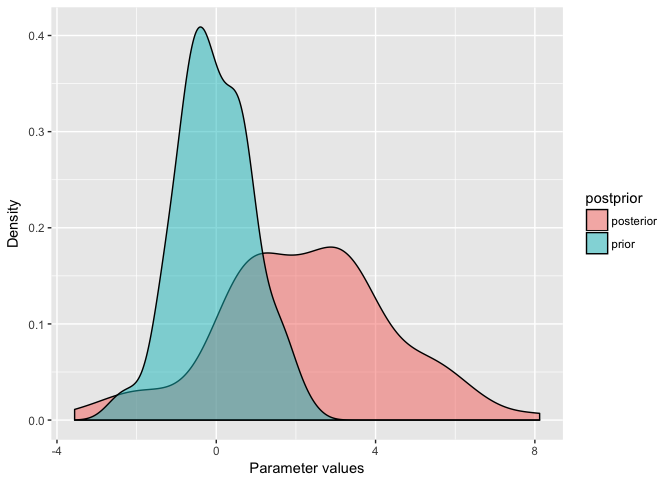
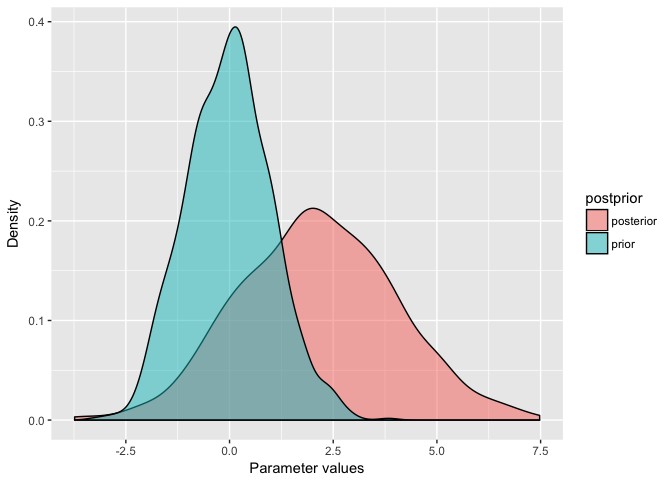
Changed to 1000 samples in rnorm()

diff --git a/README.md b/README.md
@@ -279,8 +279,8 @@ rename_col(data,
 Calculate Bayes factor from 2 distributions and (optionally) plot the the two distributions. Returns list with ggplot2 object, BF10, and BF01.
 
 ``` r
-prior <- rnorm(100, mean=0, sd=1)
-posterior <- rnorm(100, mean=2, sd=2)
+prior <- rnorm(1000, mean=0, sd=1)
+posterior <- rnorm(1000, mean=2, sd=2)
 
 s_d <- savage_dickey(posterior, prior, Q = 0, plot = TRUE)
 
@@ -288,8 +288,8 @@ str(s_d, max.level = 1)
 #> List of 3
 #>  $ post_prior_plot:List of 9
 #>   ..- attr(*, "class")= chr [1:2] "gg" "ggplot"
-#>  $ BF10           : num 0.182
-#>  $ BF01           : num 5.51
+#>  $ BF10           : num 0.329
+#>  $ BF01           : num 3.04
 
 s_d
 #> $post_prior_plot
@@ -299,7 +299,7 @@ s_d
 
     #> 
     #> $BF10
-    #> [1] 0.1816193
+    #> [1] 0.3289146
     #> 
     #> $BF01
-    #> [1] 5.506023
+    #> [1] 3.040303
